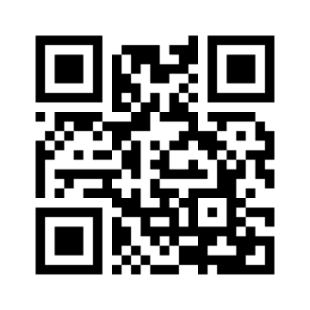
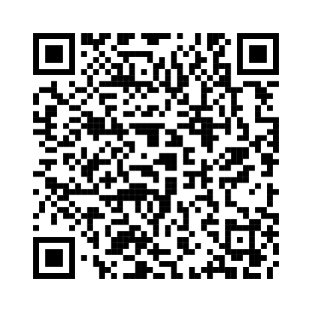
замена qr и ссылка на тг

diff --git a/dist/index.html b/dist/index.html
@@ -267,7 +267,7 @@
                             <div class="nps-survey__stay-left">
                                 <div class="nps-survey__stay-title">Оставайтесь в курсе новостей коммерческой недвижимости CMWP</div>
                                 <div class="nps-survey__stay-subtitle">Подписывайтесь на наш телеграм-канал</div>
-                                <a href="#" class="bnt nps-survey__stay-subscribe">Подписаться</a>  
+                                <a href="https://t.me/cmwp_channel?utm_source=cmwp&utm_medium=nps" class="bnt nps-survey__stay-subscribe" target="_blank">Подписаться</a>  
                             </div>
                             <div class="nps-survey__stay-right">
                                 <img src="images/qr.png" alt="qr-код" class="nps-survey__stay-qr-image">
@@ -381,6 +381,6 @@
     
 
     <script src="js/jquery-3.7.1.min.js"></script>
-    <script src="js/main.js?vers=6"></script>
+    <script src="js/main.js?vers=7"></script>
 </body>
 </html>

diff --git a/source/index.html b/source/index.html
@@ -267,7 +267,7 @@
                             <div class="nps-survey__stay-left">
                                 <div class="nps-survey__stay-title">Оставайтесь в курсе новостей коммерческой недвижимости CMWP</div>
                                 <div class="nps-survey__stay-subtitle">Подписывайтесь на наш телеграм-канал</div>
-                                <a href="#" class="bnt nps-survey__stay-subscribe">Подписаться</a>  
+                                <a href="https://t.me/cmwp_channel?utm_source=cmwp&utm_medium=nps" class="bnt nps-survey__stay-subscribe" target="_blank">Подписаться</a>  
                             </div>
                             <div class="nps-survey__stay-right">
                                 <img src="images/qr.png" alt="qr-код" class="nps-survey__stay-qr-image">
